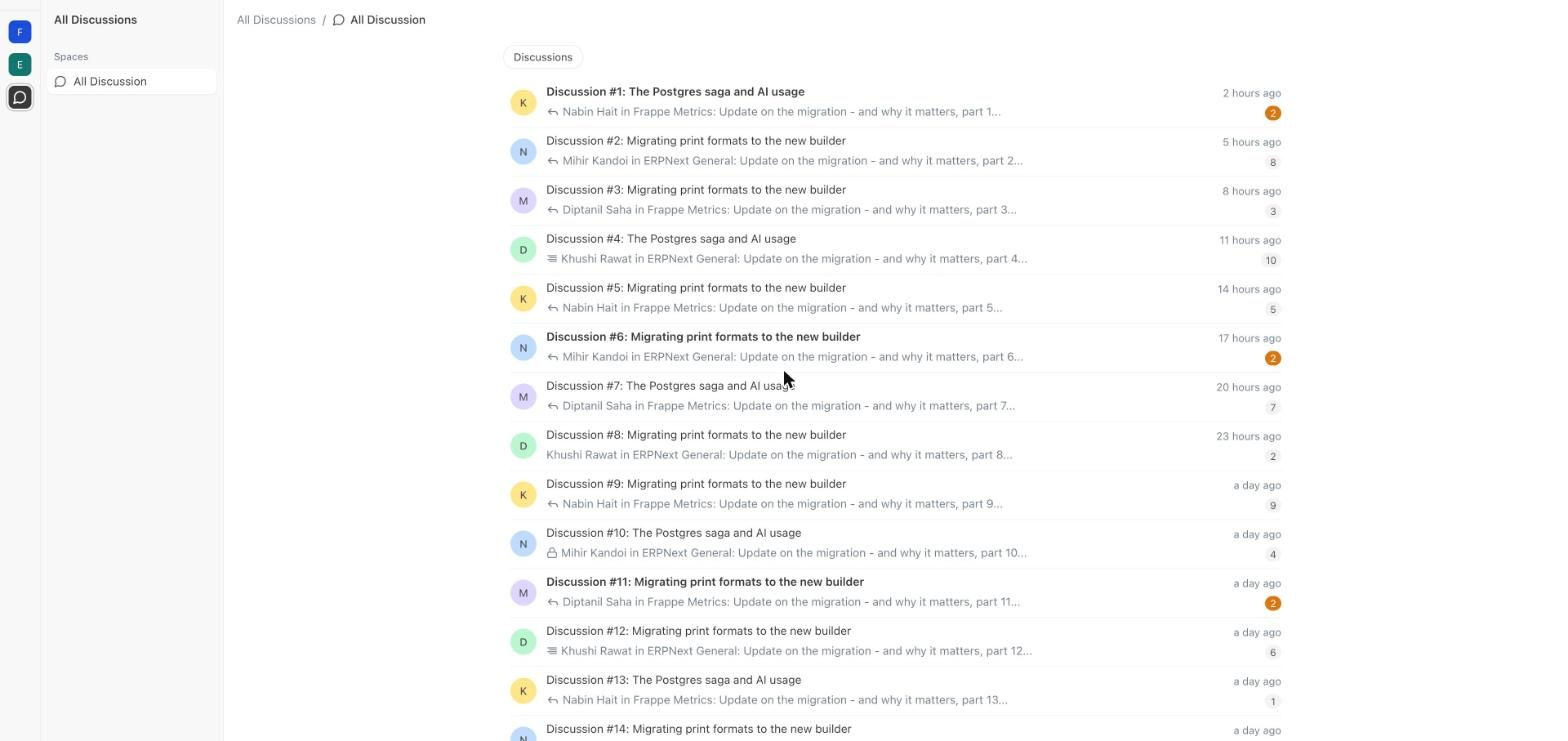
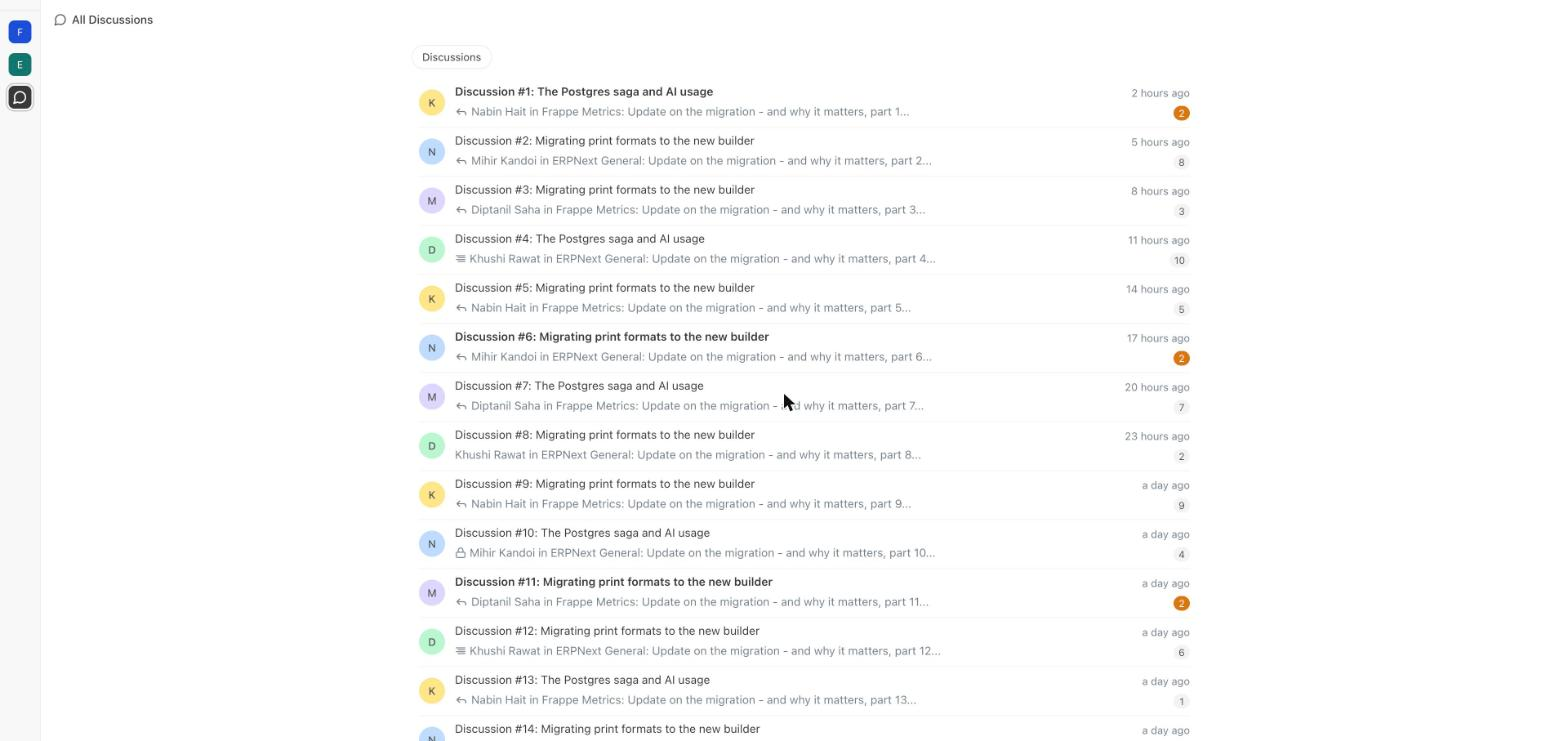
feat: one-click toolbar activation, drop spaces sidebar
Clicking the toolbar icon on a page with Gameplan UI now activates the
extension immediately via activeTab (probe, inject, open panel) and
offers to remember the site for auto-activation; non-Gameplan pages get
a transient badge. The overlay is now a single full-width discussions
panel without the spaces sidebar.

diff --git a/content/content.js b/content/content.js
@@ -411,57 +411,18 @@
     const overlay = document.createElement('div')
     overlay.className = 'gpx-overlay'
 
-    const sidebar = document.createElement('aside')
-    sidebar.className = 'gpx-sidebar'
-
-    const sidebarHeader = document.createElement('div')
-    sidebarHeader.className = 'gpx-sidebar-header'
-    sidebarHeader.textContent = 'All Discussions'
-    sidebar.appendChild(sidebarHeader)
-
-    const label = document.createElement('div')
-    label.className = 'gpx-sidebar-label'
-    label.textContent = 'Spaces'
-    sidebar.appendChild(label)
-
-    const spaceItem = document.createElement('button')
-    spaceItem.className = 'gpx-space-item gpx-space-item--active'
-    spaceItem.type = 'button'
-    spaceItem.appendChild(svgSpan('space', 'gpx-space-icon'))
-    const spaceTitle = document.createElement('span')
-    spaceTitle.className = 'gpx-space-title'
-    spaceTitle.textContent = 'All Discussion'
-    spaceItem.appendChild(spaceTitle)
-    const spaceCount = document.createElement('span')
-    spaceCount.className = 'gpx-space-count'
-    spaceItem.appendChild(spaceCount)
-    sidebar.appendChild(spaceItem)
-
-    overlay.appendChild(sidebar)
-
     const main = document.createElement('main')
     main.className = 'gpx-main'
 
     const header = document.createElement('header')
     header.className = 'gpx-header'
-    const crumb = document.createElement('div')
-    crumb.className = 'gpx-crumb'
-    const crumbRoot = document.createElement('span')
-    crumbRoot.className = 'gpx-crumb-muted'
-    crumbRoot.textContent = 'All Discussions'
-    const crumbSep = document.createElement('span')
-    crumbSep.className = 'gpx-crumb-muted'
-    crumbSep.textContent = '/'
-    const crumbCurrent = document.createElement('span')
-    crumbCurrent.className = 'gpx-crumb-current'
-    crumbCurrent.appendChild(svgSpan('space', 'gpx-crumb-icon'))
-    const crumbText = document.createElement('span')
-    crumbText.textContent = 'All Discussion'
-    crumbCurrent.appendChild(crumbText)
-    crumb.appendChild(crumbRoot)
-    crumb.appendChild(crumbSep)
-    crumb.appendChild(crumbCurrent)
-    header.appendChild(crumb)
+    const title = document.createElement('div')
+    title.className = 'gpx-crumb-current'
+    title.appendChild(svgSpan('space', 'gpx-crumb-icon'))
+    const titleText = document.createElement('span')
+    titleText.textContent = 'All Discussions'
+    title.appendChild(titleText)
+    header.appendChild(title)
     main.appendChild(header)
 
     const scroll = document.createElement('div')
@@ -652,4 +613,11 @@
   observer.observe(document.body, { childList: true, subtree: true })
   ensureInjected()
   setupReturnFlow()
+
+  // Fired by the background script (same isolated world) right after a
+  // toolbar-click activation, so the panel opens without a second click.
+  window.addEventListener('gpx-open', () => {
+    ensureInjected()
+    openOverlay()
+  })
 })()

diff --git a/background.js b/background.js
@@ -39,6 +39,73 @@ async function syncRegistrations() {
   }
 }
 
+// Runs in the page via activeTab to check for a Gameplan frontend before
+// activating. Mirrors the markers content.js checks.
+function detectGameplan() {
+  if (document.querySelector('link[rel="manifest"][href*="gameplan"]')) return true
+  const app = document.getElementById('app')
+  return (
+    !!app &&
+    Array.from(document.scripts).some((s) => !s.src && /frappe|gameplan/i.test(s.textContent || ''))
+  )
+}
+
+async function flashBadge(tabId, text, title) {
+  await api.action.setBadgeText({ tabId, text })
+  await api.action.setTitle({ tabId, title })
+  setTimeout(() => {
+    api.action.setBadgeText({ tabId, text: '' })
+    api.action.setTitle({ tabId, title: 'MGCA: activate on this Gameplan site' })
+  }, 2500)
+}
+
+// One-click activation: on a page with Gameplan UI, inject immediately via
+// activeTab (no prompt), open the panel, then best-effort request permanent
+// host permission so future loads auto-activate.
+api.action.onClicked.addListener(async (tab) => {
+  if (!tab.id || !tab.url || !/^https?:/.test(tab.url)) return
+  const origin = new URL(tab.url).origin
+
+  let isGameplan = false
+  try {
+    const [probe] = await api.scripting.executeScript({
+      target: { tabId: tab.id },
+      func: detectGameplan,
+    })
+    isGameplan = !!(probe && probe.result)
+  } catch (e) {
+    // page not scriptable (browser UI page, PDF, ...)
+  }
+  if (!isGameplan) {
+    flashBadge(tab.id, '✕', 'MGCA: this does not look like a Gameplan site')
+    return
+  }
+
+  await api.scripting.insertCSS({ target: { tabId: tab.id }, files: ['content/content.css'] })
+  await api.scripting.executeScript({ target: { tabId: tab.id }, files: ['content/content.js'] })
+  // content.js listens for this in the same isolated world and opens the panel
+  await api.scripting.executeScript({
+    target: { tabId: tab.id },
+    func: () => window.dispatchEvent(new CustomEvent('gpx-open')),
+  })
+
+  try {
+    const granted = await api.permissions.request({ origins: [origin + '/*'] })
+    if (granted) {
+      const { origins = [] } = await api.storage.sync.get({ origins: [] })
+      if (!origins.includes(origin)) {
+        origins.push(origin)
+        await api.storage.sync.set({ origins })
+      }
+      await syncRegistrations()
+    }
+  } catch (e) {
+    // Some browsers reject permissions.request here (gesture already spent).
+    // The activeTab injection above still works for this tab; permanence can
+    // be granted any time from the options page.
+  }
+})
+
 api.runtime.onInstalled.addListener(() => syncRegistrations())
 api.runtime.onStartup.addListener(() => syncRegistrations())
 api.permissions.onRemoved.addListener(() => syncRegistrations())

diff --git a/content/content.css b/content/content.css
@@ -5,7 +5,6 @@
 
 .gpx-overlay {
   --gpx-surface: var(--surface-white, #fff);
-  --gpx-sidebar-bg: var(--surface-sidebar, #f8f8f8);
   --gpx-ink: var(--ink-gray-8, #383838);
   --gpx-ink-mid: var(--ink-gray-6, #525252);
   --gpx-ink-muted: var(--ink-gray-5, #74808b);
@@ -20,7 +19,6 @@
 
 html[data-theme='dark'] .gpx-overlay {
   --gpx-surface: var(--surface-white, #171717);
-  --gpx-sidebar-bg: var(--surface-sidebar, #212121);
   --gpx-ink: var(--ink-gray-8, #ededed);
   --gpx-ink-mid: var(--ink-gray-6, #c7c7c7);
   --gpx-ink-muted: var(--ink-gray-5, #989898);
@@ -91,73 +89,6 @@ html[data-theme='dark'] .gpx-overlay {
   background: var(--gpx-surface);
 }
 
-/* ---------- Spaces sidebar ---------- */
-
-.gpx-sidebar {
-  width: 14rem;
-  flex-shrink: 0;
-  display: flex;
-  flex-direction: column;
-  background: var(--gpx-sidebar-bg);
-  border-right: 1px solid var(--gpx-outline);
-  padding: 0 8px;
-}
-
-.gpx-sidebar-header {
-  display: flex;
-  align-items: center;
-  height: 48px;
-  padding: 0 8px;
-  font-weight: 600;
-  font-size: 14px;
-  color: var(--gpx-ink);
-  flex-shrink: 0;
-}
-
-.gpx-sidebar-label {
-  padding: 12px 8px 6px;
-  font-size: 12px;
-  font-weight: 500;
-  color: var(--gpx-ink-muted);
-}
-
-.gpx-space-item {
-  display: flex;
-  align-items: center;
-  gap: 8px;
-  width: 100%;
-  padding: 5px 8px;
-  border: none;
-  border-radius: 6px;
-  background: transparent;
-  color: var(--gpx-ink);
-  font-size: 14px;
-  font-family: inherit;
-  text-align: left;
-  cursor: pointer;
-}
-
-.gpx-space-item:hover {
-  background: var(--gpx-hover-2);
-}
-
-.gpx-space-item--active {
-  background: var(--gpx-selected);
-  box-shadow: 0 1px 2px rgba(0, 0, 0, 0.06);
-}
-
-.gpx-space-icon {
-  display: flex;
-  color: var(--gpx-ink-mid);
-}
-
-.gpx-space-title {
-  flex: 1;
-  overflow: hidden;
-  text-overflow: ellipsis;
-  white-space: nowrap;
-}
-
 /* ---------- Main panel ---------- */
 
 .gpx-main {
@@ -174,17 +105,6 @@ html[data-theme='dark'] .gpx-overlay {
   height: 48px;
   padding: 0 16px;
   flex-shrink: 0;
-}
-
-.gpx-crumb {
-  display: flex;
-  align-items: center;
-  gap: 8px;
-  font-size: 14px;
-}
-
-.gpx-crumb-muted {
-  color: var(--gpx-ink-muted);
 }
 
 .gpx-crumb-current {

diff --git a/options/options.html b/options/options.html
@@ -11,7 +11,10 @@
         <img src="../icons/icon-32.png" alt="" width="24" height="24" />
         <div>
           <h1>MGCA — Make Gameplan Chaotic Again</h1>
-          <p class="subtitle">Add your Gameplan instance to activate the extension on it.</p>
+          <p class="subtitle">
+            Click the toolbar icon on a Gameplan tab to activate — or add an instance manually
+            below.
+          </p>
         </div>
       </header>
 

diff --git a/README.md b/README.md
@@ -1,6 +1,6 @@
 # MGCA — Make Gameplan Chaotic Again
 
-Browser extension (Chrome + Firefox, Manifest V3) that adds an **All Discussions** view to [Gameplan](https://github.com/frappe/gameplan): an extra icon in the community rail opens a panel with a single **All Discussion** space listing every discussion you can access, across all communities and spaces.
+Browser extension (Chrome + Firefox, Manifest V3) that adds an **All Discussions** view to [Gameplan](https://github.com/frappe/gameplan): an extra icon in the community rail opens a full-width panel listing every discussion you can access, across all communities and spaces.
 
 ![MGCA panel showing discussions across all spaces](docs/screenshot.jpg)
 
@@ -12,7 +12,7 @@ Plain JS/CSS, no build step.
 
 **Firefox** — `about:debugging#/runtime/this-firefox` → **Load Temporary Add-on** → `manifest.json`. (A warning about `service_worker` is expected; that key is for Chrome.)
 
-Then click the toolbar icon, add your Gameplan instance URL, and accept the permission prompt. Reload your Gameplan tab — a chat-bubble icon appears at the bottom of the community rail.
+Then open your Gameplan tab and **click the toolbar icon** — if the page has Gameplan UI it activates instantly and opens the panel (on anything else the icon briefly shows ✕). A follow-up prompt asks to remember the site so it auto-activates on future visits; instances can also be added or removed manually on the options page.
 
 ## Use
 
@@ -22,7 +22,7 @@ Then click the toolbar icon, add your Gameplan instance URL, and accept the perm
 
 ## How it works
 
-No static content scripts: the script is registered dynamically for only the origins you configure, self-verifies the page is a Gameplan frontend, then injects into the rail (a `MutationObserver` keeps it alive across SPA navigations). Discussions come from the whitelisted `get_discussions` endpoint with no `team`/`project` filter — server-side permission filtering still applies — using your existing session cookie. The panel is styled with Gameplan's own CSS tokens, so light/dark theme follows the app.
+No static content scripts: a toolbar click probes the current tab via `activeTab` and injects only when Gameplan UI is detected; granting the follow-up prompt registers the script for that origin so it auto-activates later. The script self-verifies the page is a Gameplan frontend, then injects into the rail (a `MutationObserver` keeps it alive across SPA navigations). Discussions come from the whitelisted `get_discussions` endpoint with no `team`/`project` filter — server-side permission filtering still applies — using your existing session cookie. The panel is styled with Gameplan's own CSS tokens, so light/dark theme follows the app.
 
 ## Distribute without the stores
 
